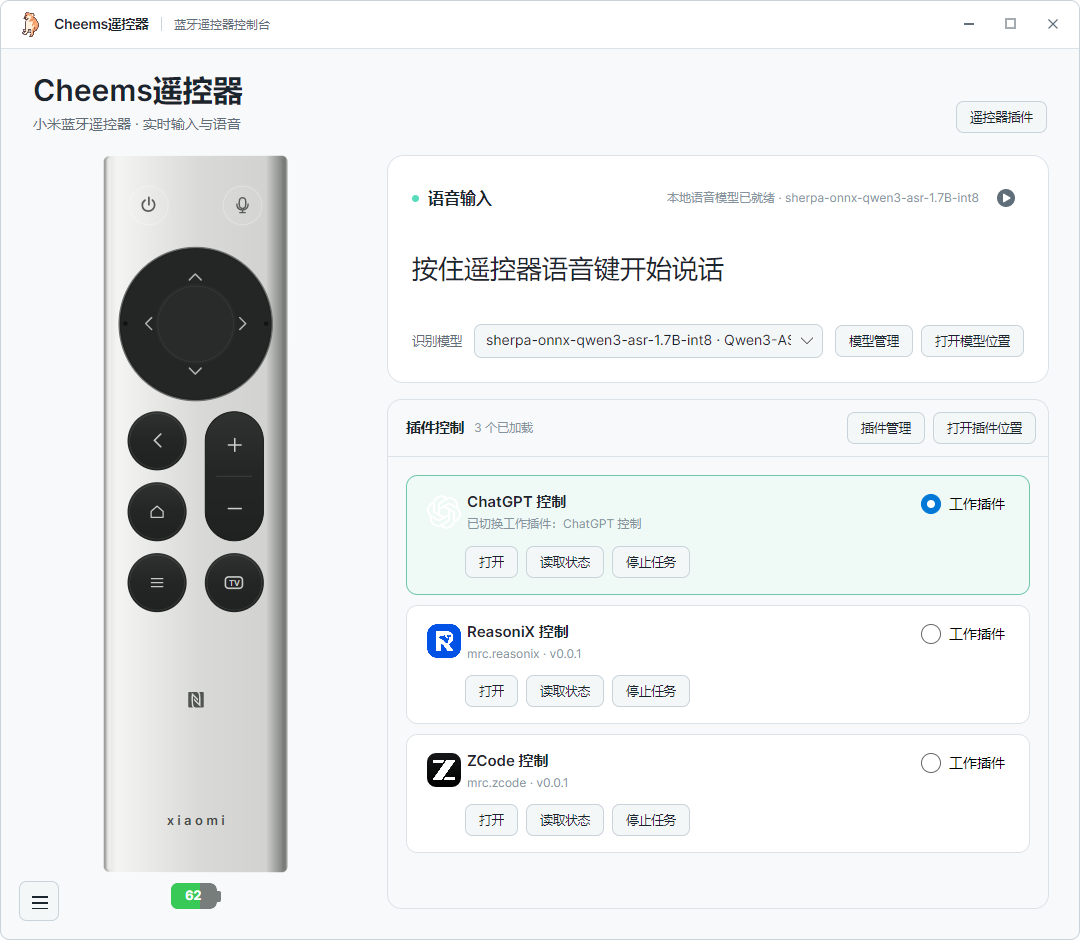
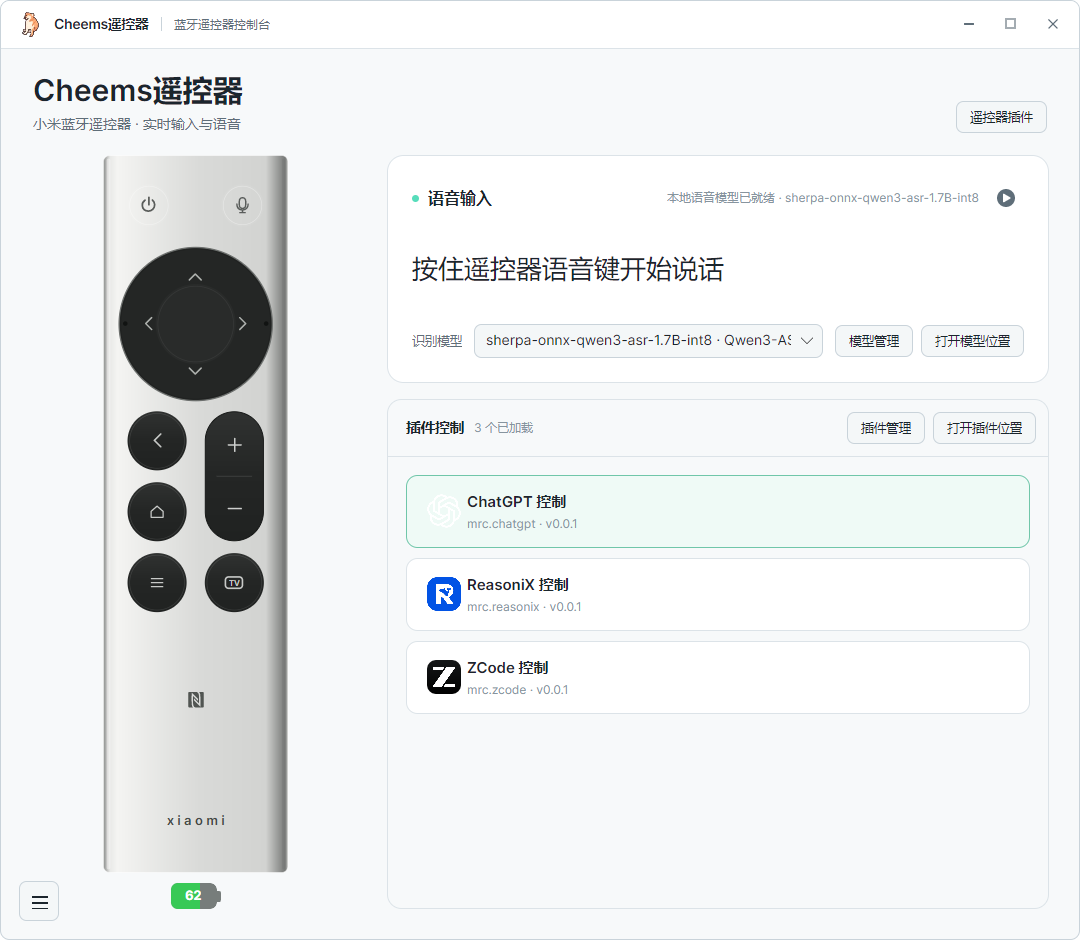
feat: ChatGPT 图标改为品牌绿贴片式，兼顾日夜主题（0.0.2）

diff --git a/plugins/MiRemoteControl.Plugin.ChatGpt/ChatGptPlugin.cs b/plugins/MiRemoteControl.Plugin.ChatGpt/ChatGptPlugin.cs
@@ -108,7 +108,7 @@ public sealed class ChatGptPlugin : IHarnessPlugin, IAsyncHarnessPlugin
     private Task? _inputWatcherTask;
     private TaskCompletionSource<long> _inputChanged = NewInputChangedSignal();
 
-    public PluginDescriptor Descriptor { get; } = new("mrc.chatgpt", "ChatGPT 控制", "0.0.1",
+    public PluginDescriptor Descriptor { get; } = new("mrc.chatgpt", "ChatGPT 控制", "0.0.2",
         HarnessPluginActions.DefaultActions, PluginKinds.Target);
 
     public async Task<CommandResult> ExecuteAsync(
